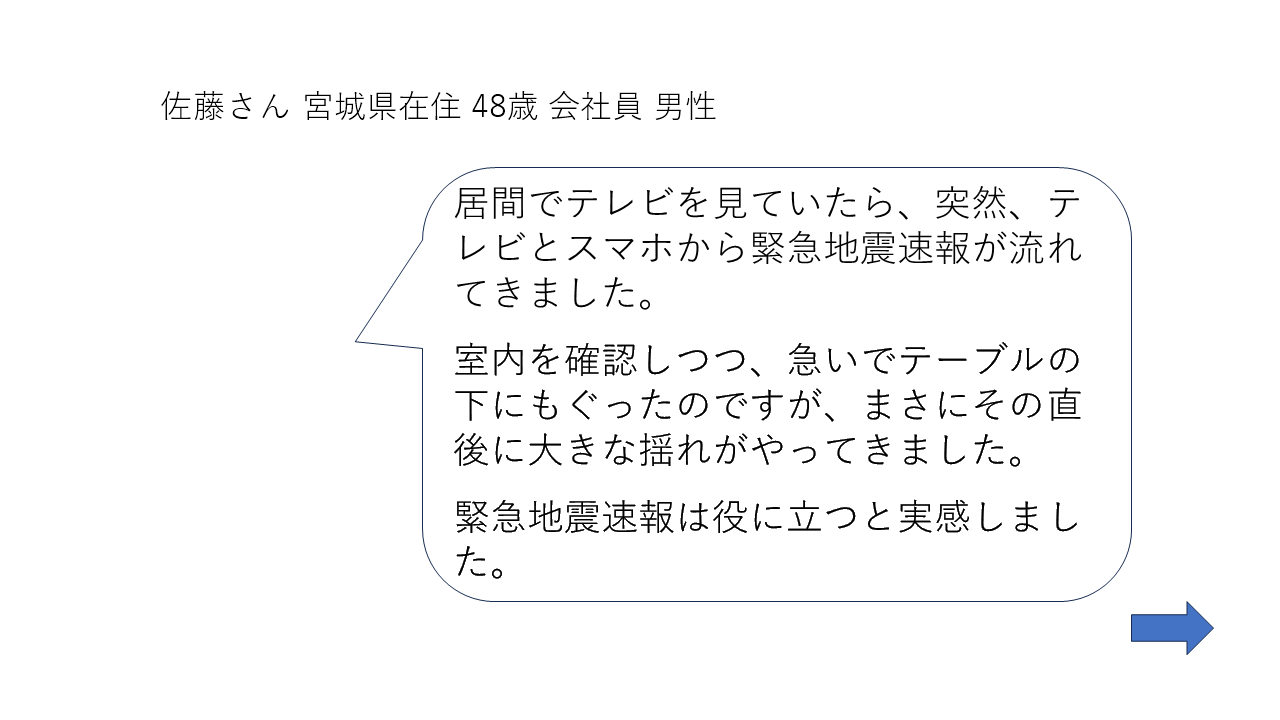
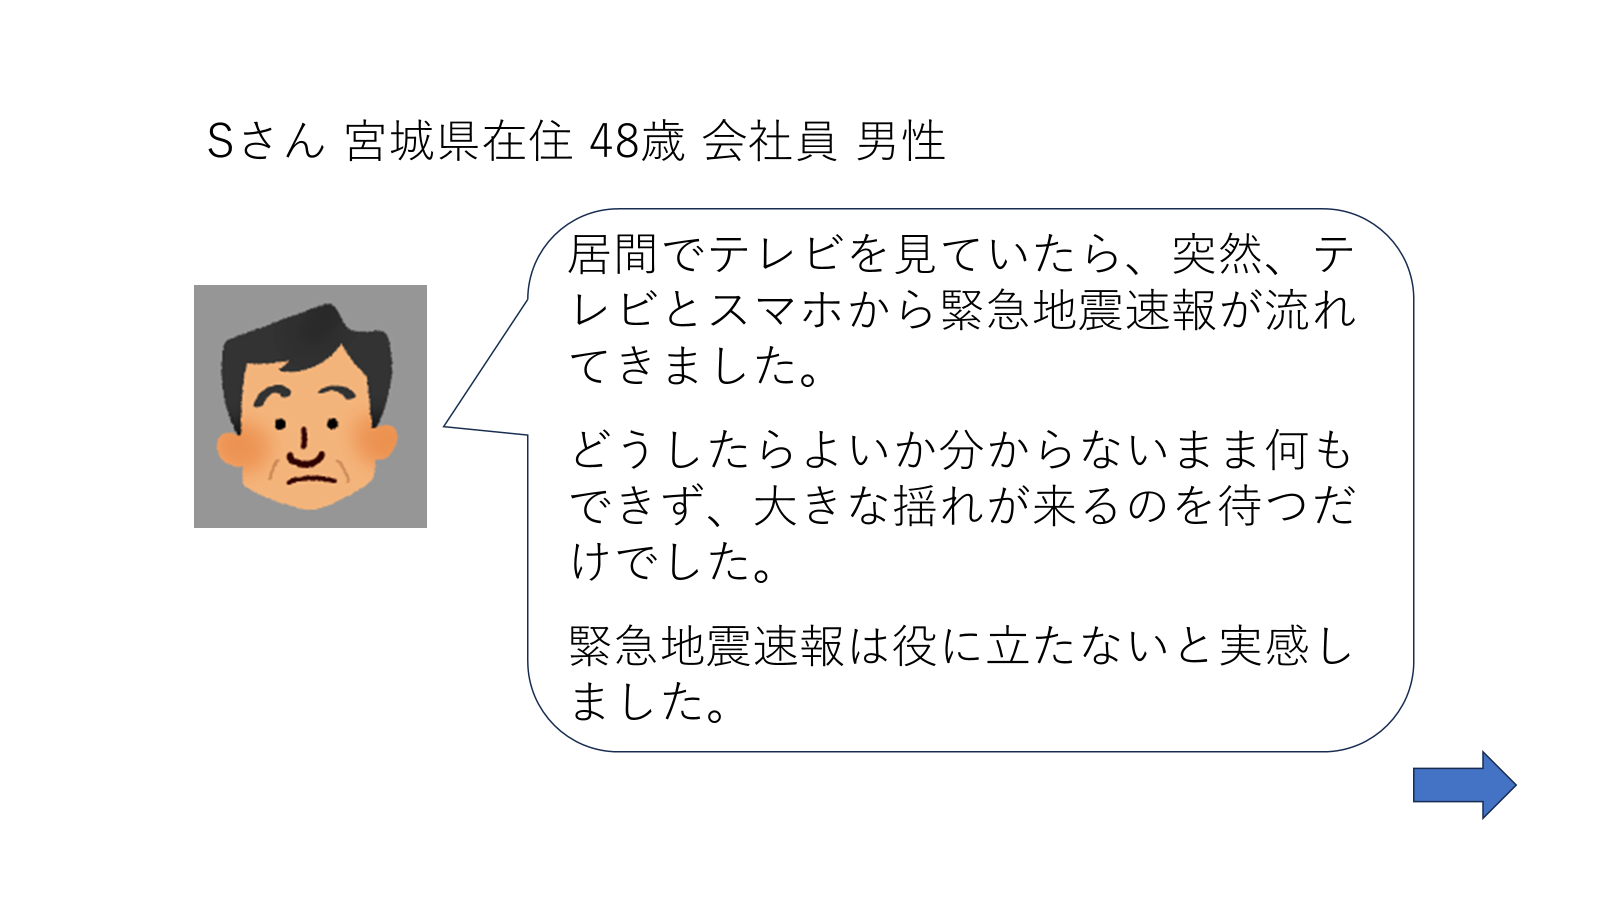
Complete GN condition

diff --git a/scriptMP.js b/scriptMP.js
@@ -1251,7 +1251,7 @@ async function submitSurveyToGoogleForm() {
 
   try {
     await fetch(
-      "https://docs.google.com/forms/d/e/1FAIpQLSfAHH7whxtwD7i8T6iGD3jvo59OYDXa8s4Daa7Z2J_yLwZU1g/formResponse",
+      "https://docs.google.com/forms/d/e/1FAIpQLSfasUIlOtk-4Uyr6KeTdYd7WbHskpB7Wfqc6ng3naOz55-Cbg/formResponse",
       {
         method: "POST",
         mode: "no-cors",
